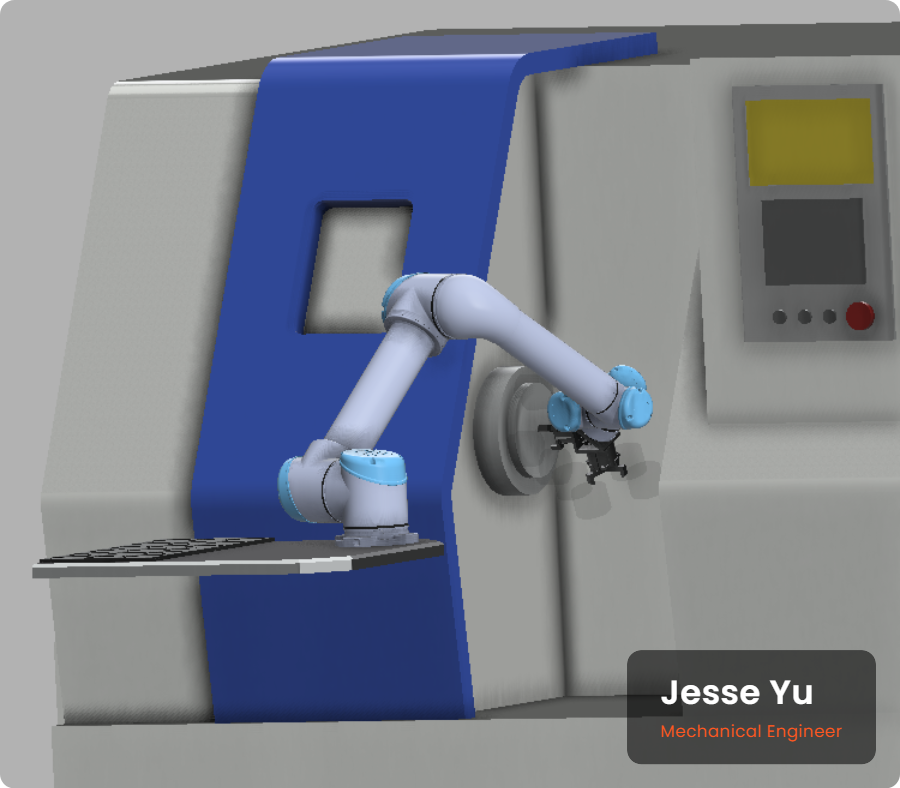
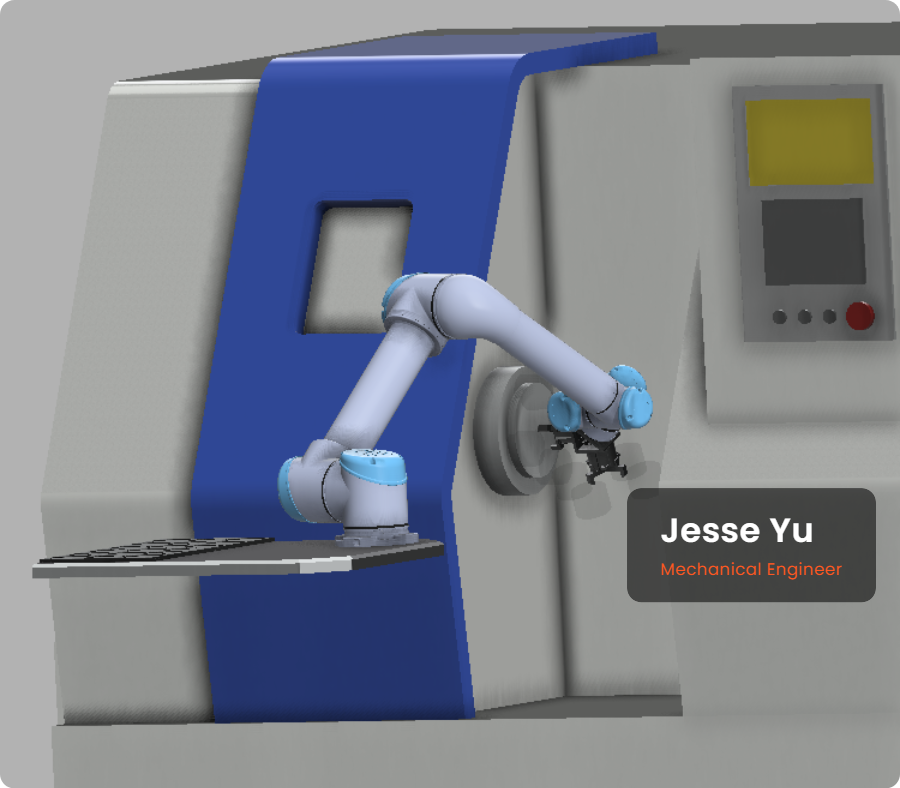
Update portfolio description in index.html, adjust overlay text position in thumbnail.html, and replace thumbnail image

Changed region(s): [[0.6844, 0.8223, 0.9956, 0.9746], [0.6844, 0.6091, 0.9956, 0.7614]]

diff --git a/index.html b/index.html
@@ -5,7 +5,7 @@
   <meta charset="UTF-8">
   <meta http-equiv="X-UA-Compatible" content="IE=edge">
   <meta name="viewport" content="width=device-width, initial-scale=1.0">
-  <meta name="description" content="Jesse Yu – Mechanical Engineer">
+  <meta name="description" content="Jesse Yu's portfolio website. Mechanical Engineer with an interest in product development, mechatronics, design, and manufacturing.">'">
   <meta name="author" content="Jesse Yu">
   <meta property="og:title" content="Jesse Yu – Portfolio Website">
   <meta property="og:image" content="https://yu-jesse.github.io/assets/images/jesse-thumbnail.png">

diff --git a/thumbnail.html b/thumbnail.html
@@ -33,7 +33,7 @@
 
     .overlay-text {
       position: absolute;
-      bottom: 20px;
+      bottom: 155px;
       right: 20px;
       padding: 18px 28px;
       border-radius: 12px;
